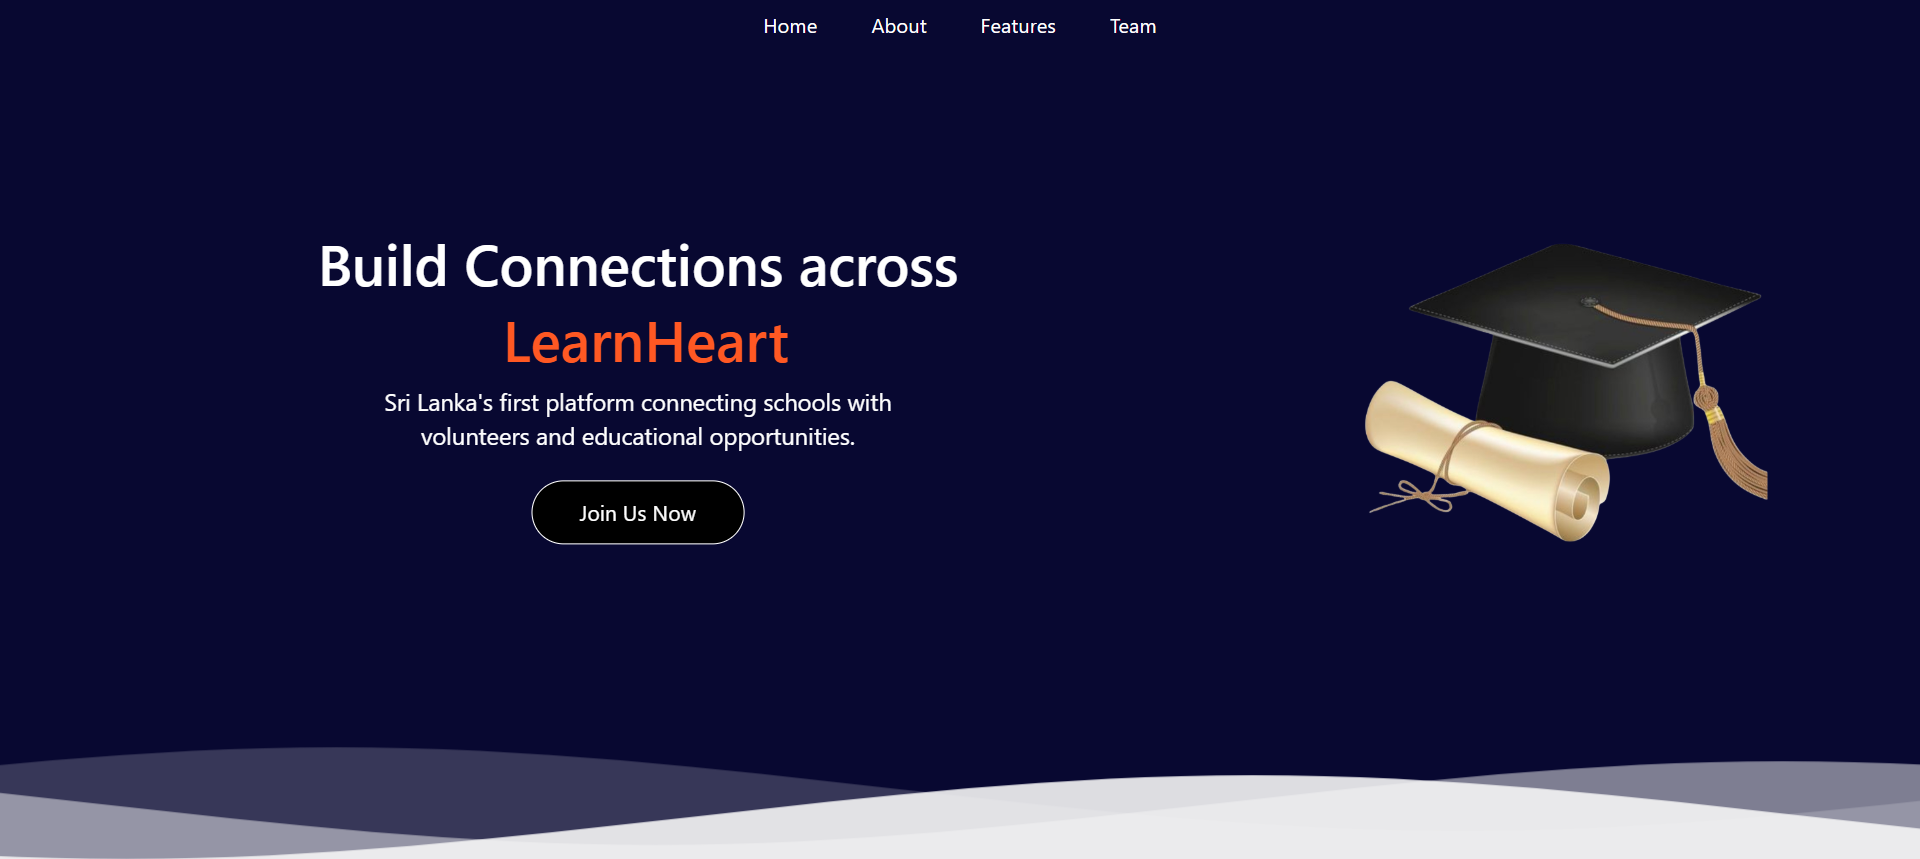
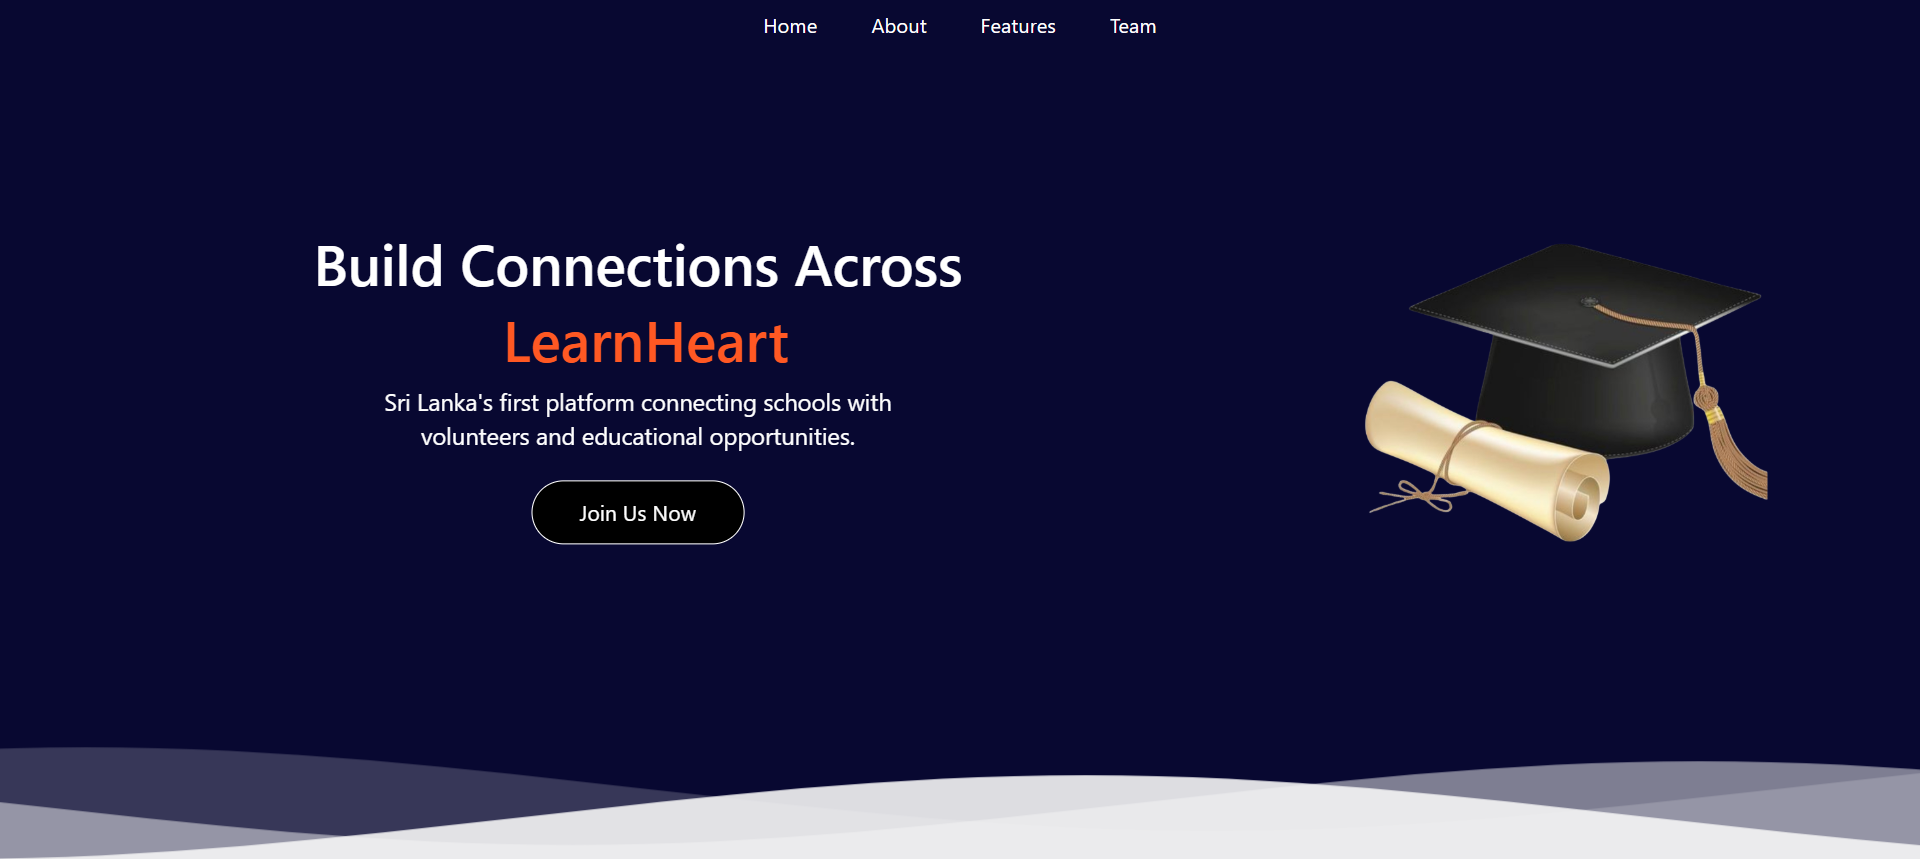
hide button

diff --git a/src/components/Profile.jsx b/src/components/Profile.jsx
@@ -24,7 +24,7 @@ const Profile = () => {
             data-aos-once="false"
             className="mb-4 text-4xl font-medium text-center text-white title-font md:text-5xl"
           >
-            Build Connections across{" "}
+            Build Connections Across{" "}
           </h2>
           <div
             data-aos="zoom-in-up"
@@ -56,11 +56,11 @@ const Profile = () => {
             data-aos-once="false"
             className="flex justify-center mt-4 gap-x-4 md:gap-x-5 md:justify-between"
           >
-            <button className="inline-flex p-2 py-3 text-sm text-white duration-300 bg-black border border-white rounded-full focus:outline-none md:text-base lg:text-lg xl:px-10 hover:scale-110">
+            {/* <button className="inline-flex p-2 py-3 text-sm text-white duration-300 bg-black border border-white rounded-full focus:outline-none md:text-base lg:text-lg xl:px-10 hover:scale-110">
               <a href="https://siddhant-k-code.github.io/404-Error-Page---Astronaut/" target="_blank" rel="noopener noreferrer" className="cursor-pointer">
                 Join Us Now
               </a>
-          </button>
+            </button> */}
 
           </div>
         </div>

diff --git a/src/components/Team.jsx b/src/components/Team.jsx
@@ -66,7 +66,7 @@ const Team = () => {
               <img
                 src={member.image}
                 alt={member.name}
-                className="object-cover w-40 h-40 border-4 border-gray-300 rounded-full sm:w-40 sm:h-40 lg:w-48 lg:h-48"
+                className="w-40 h-40 border-4 border-gray-300 rounded-full sm:w-40 sm:h-40 lg:w-48 lg:h-48"
               />
               <h2 className="mt-4 text-lg font-semibold text-black">{member.name}</h2>
               <p className="text-sm text-gray-500">{member.desc}</p>

diff --git a/src/components/Marketing.jsx b/src/components/Marketing.jsx
@@ -6,7 +6,7 @@ const Marketing = () => {
           {/* Left Section: Title */}
           <div className="lg:w-1/2">
             <h1 className="mb-4 text-2xl font-medium text-gray-800 sm:text-4xl">
-              Demo Video
+              Discover LearnHeart
             </h1>
             <p className="text-lg leading-relaxed text-gray-600">
               Explore our platform through this demo video. It highlights key
